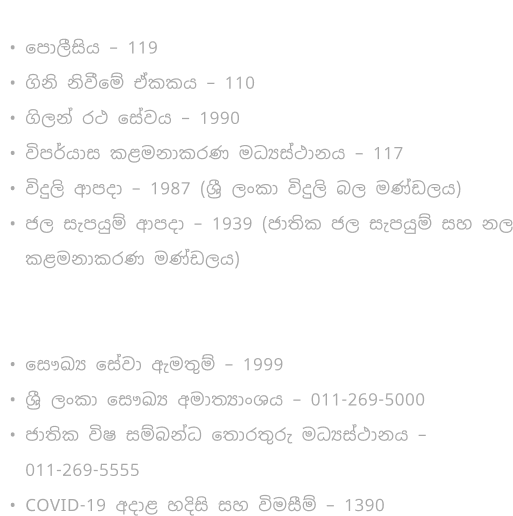
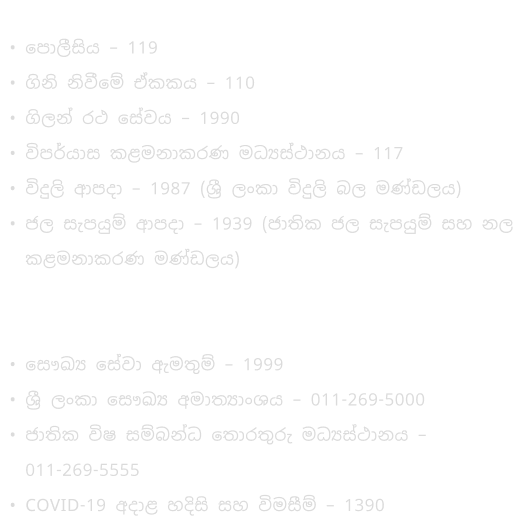
Final1

diff --git a/styles/voice-input-style.css b/styles/voice-input-style.css
@@ -67,29 +67,32 @@ main{
 #logo{
     position: absolute;
     top: 10%;
-    width: 140.57px;
+    width: 200.57px;
     filter: brightness(30%);
     margin-left: 6px;
+    opacity: 50%;
 }
 
 /*---------typing text-----------*/
 #text-anime{
     position: absolute;
-    bottom: 35px;
+    bottom: 65px;
     left: 18px;
     width: 80vw;
 }
 #text1{
     color: #A3A3A3;
-    font-size: 0.8em;
+    font-size: 1em;
     font-family: 'Noto Sans Sinhala';
+    opacity: 50%;
 }
 #text2 {
     color: #A07759;
     font-family: 'Noto Sans Sinhala';
-    font-size: 0.8em;
+    font-size: 1.2em;
     position: absolute;
     animation: blink 0.6s step-end infinite;
+    opacity: 50%;
   }
   
   @keyframes blink {
@@ -157,7 +160,6 @@ footer{
     color: white;
     font-size: 12px;
     font-family: 'Noto Sans Sinhala';
-    color: #DEDEDE;
 }
 
 /*---------------sidebar-----------------*/
@@ -242,19 +244,19 @@ li{
 .side-texts{
     margin-left: 15px;
     font-size: 0.7em;
-    color: #A3A3A3;
+    color: #DBDBDB;
     font-weight: 550;
     margin-top: 5px;
 }
 .side-titles{
     font-size: 0.6em;
-    color: #A3A3A3;
+    color: #DBDBDB;
     font-weight: 550;
     margin-top: 20px;
     margin-bottom: 20px;
 }
 .side-lines{
-    color: #a3a3a35f;
+    color: #666666;
     width: 95%;
 }
 #shadow{
@@ -285,7 +287,7 @@ section{
 }
 .section-active{
     display: block;
-    animation: slideIn 0.4s ease-in-out;
+    animation: slideR 0.4s ease-in-out;
 }
 @keyframes slideIn {
     from{
@@ -310,14 +312,15 @@ section{
     color: white;
 }
 #contactTitle{
-    width: 350px;
+    width: 330px;
     position: absolute;
     top: 13%;
+    margin-left: 20px;
 }
 #contactText{
     width: 350px;
     position: absolute;
-    top: 23%;
+    top: 21%;
     margin-left: 16px;
 }
 

diff --git a/styles/voice-result-style.css b/styles/voice-result-style.css
@@ -456,13 +456,13 @@ li{
 .side-texts{
     margin-left: 15px;
     font-size: 0.7em;
-    color: #A3A3A3;
+    color: #DBDBDB;
     font-weight: 550;
     margin-top: 5px;
 }
 .side-titles{
     font-size: 0.6em;
-    color: #A3A3A3;
+    color: #DBDBDB;
     font-weight: 550;
     margin-top: 20px;
     margin-bottom: 20px;
@@ -482,6 +482,60 @@ li{
     background-color: black;
     display: none;
 }
+
+
+/*-------section-------------*/
+
+section{
+    background-color: #141218;
+    height: 100%;
+    width: 100%;
+    position: absolute;
+    z-index: 30;
+    top: 0px;
+    display: flex;
+    align-items: center;
+    flex-direction: column;
+    display: none;
+}
+.section-active{
+    display: block;
+    animation: slideIn 0.4s ease-in-out;
+}
+@keyframes slideIn {
+    from{
+        right: -100%;
+    }
+    to{
+        right: 0;
+    } 
+}
+#section-head{
+    width: 100%;
+    height: 60px;
+    position: absolute;
+    border-bottom: 1px solid black;
+    font-size: 1em;
+}
+#back{
+    position: absolute;
+    left: 18px;
+    top: 18px;
+    cursor: pointer;
+    color: white;
+}
+#contactTitle{
+    width: 350px;
+    position: absolute;
+    top: 13%;
+}
+#contactText{
+    width: 350px;
+    position: absolute;
+    top: 23%;
+    margin-left: 16px;
+}
+
 
 
 

diff --git a/voice-result.html b/voice-result.html
@@ -60,9 +60,16 @@
         </ul>
     </aside>
     <div id="shadow"></div>
+    <section>
+        <div id="section-head">
+            <div id="back"><img src="images/back.png" style="margin-right: 10px; width: 16px;;">ආපසු</div>
+        </div>
+        <img id="contactTitle" src="images/contactgg.png" >
+        <img id="contactText" src="images/contact text.png">
+    </section>
     <main>
         <img id="spectrum" src="images/spectrum.png" alt="spectrum">
-        <div id="voiceText">“<span class="idwords">ගින්දරට</span> හසුවී <span class="idwords"> පිච්චුනා</span>”</div> 
+        <div id="voiceText">“<span class="idwords">ගින්දර</span>ට හසුවී <span class="idwords"> පිච්චුනා</span>”</div> 
         <div id="response">
             <p id="idText">හදිසි පිළිස්සීම් තත්වයක්</p>
             <img id="identified" src="images/identified.png" alt="identified">

diff --git a/js/index.js b/js/index.js
@@ -77,7 +77,7 @@ function micAnimate(){
 }
 
 function playSpeech(){
-  const audio = new Audio("audio/baby-mandala-169039.mp3");
+  const audio = new Audio("audio/baby-mandla-169039.mp3");
 
   setTimeout(() => {
     audio.play();
@@ -90,8 +90,11 @@ function playSpeech(){
 //display contact
 
 function displayContact(){
-  document.getElementById("section").classList.add("section-active");
-  
+  document.querySelector("section").classList.toggle("section-active");
+
+  document.getElementById("back").onclick = function(){
+    document.querySelector("section").classList.remove("section-active");
+  }
 }
 
     

diff --git a/js/result.js b/js/result.js
@@ -25,9 +25,9 @@ delay();
     document.getElementById("screen1").classList.add("hidden");
     document.getElementById("screen2").classList.remove("hidden");
 }, 3000);
-
-const emergencyButton = document.getElementById("emergency-button");
+*/
+const emergencyButton = document.getElementById("callBtn");
   emergencyButton.addEventListener("click", () => {
-    window.location.href = 'alert.html';
-});*/
+    window.location.href = 'completed.html';
+});
 
